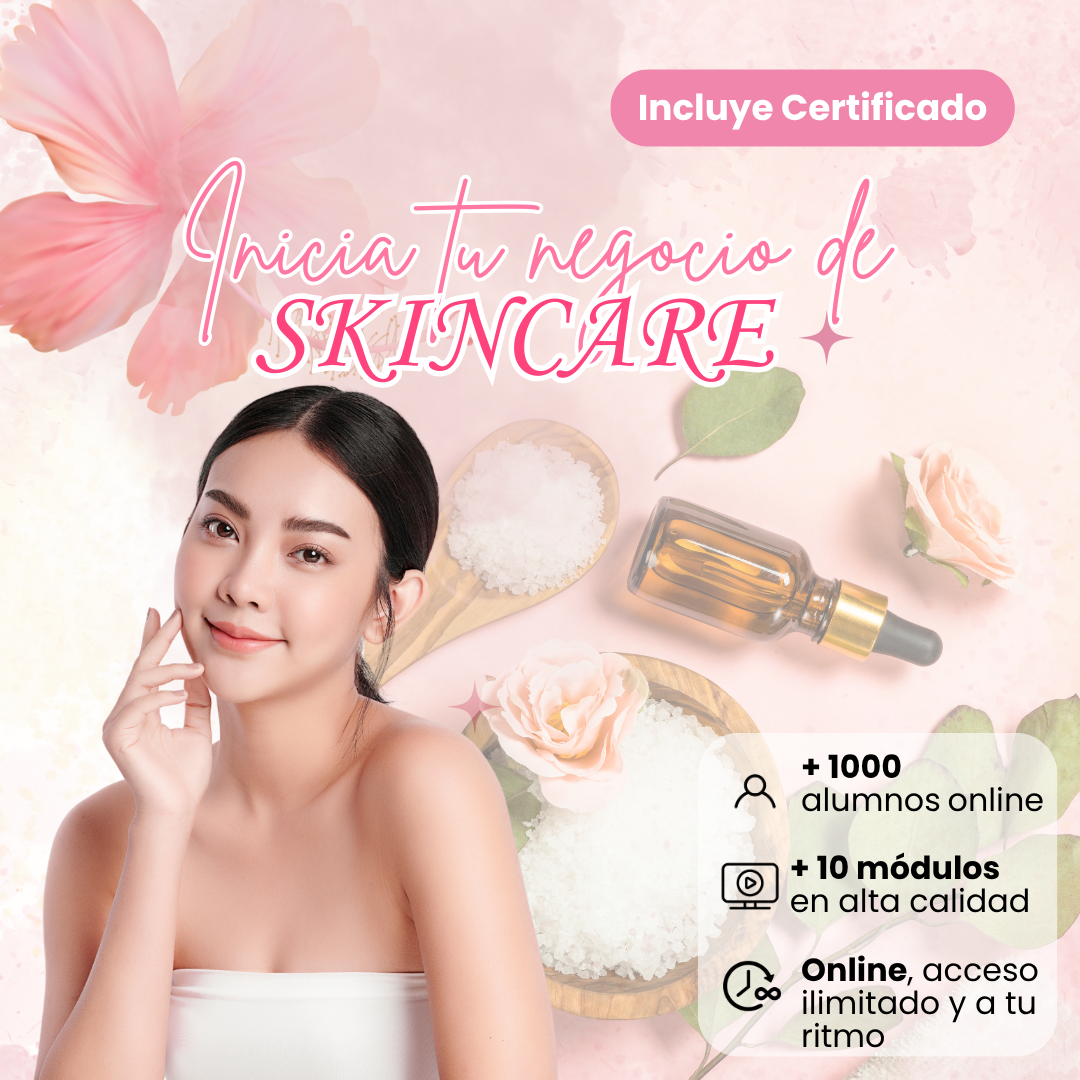
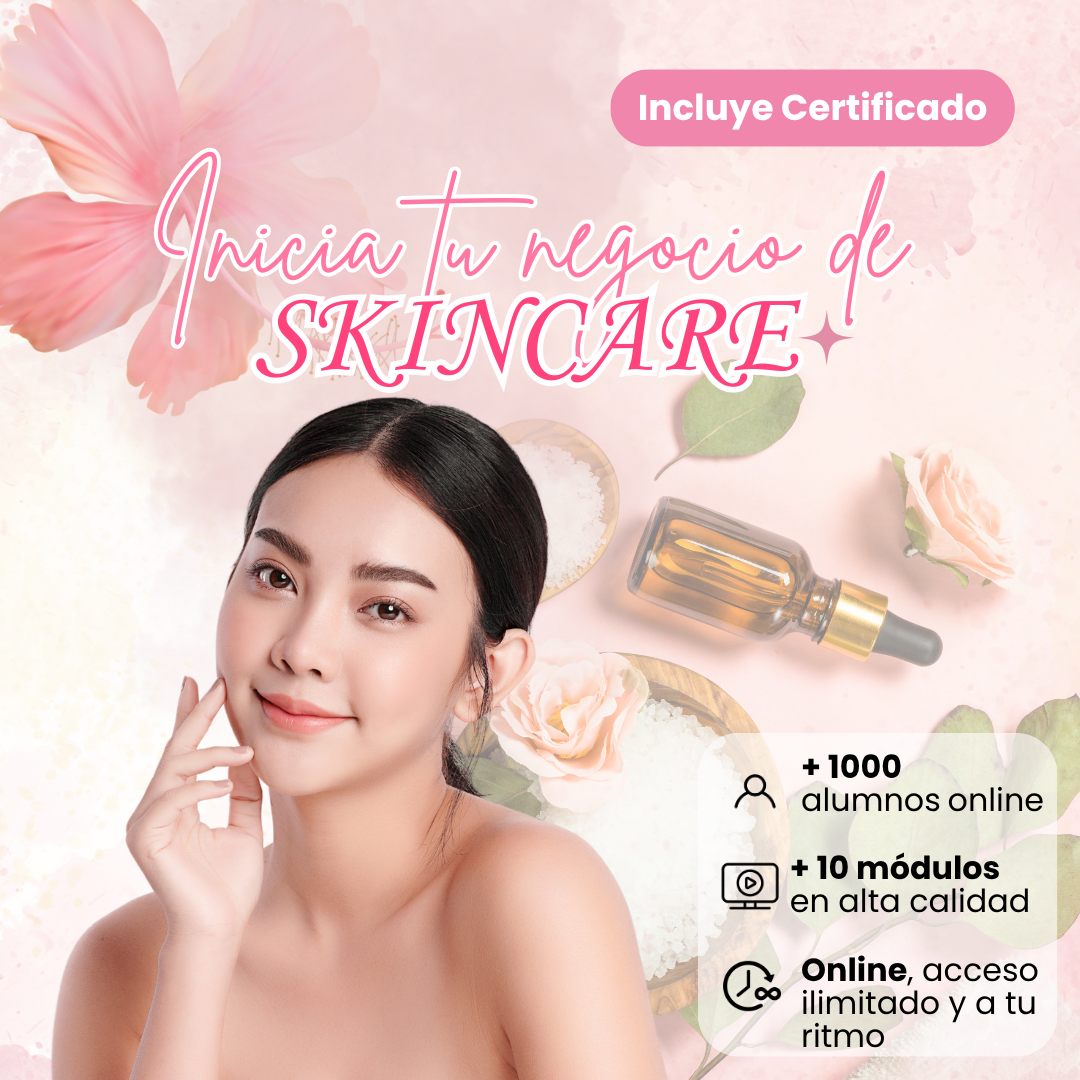
skincare

Changed region(s): [[0.0306, 0.1222, 0.8556, 1.0]]

diff --git a/index.html b/index.html
@@ -544,7 +544,7 @@ a:active {
      <div class="course-card">
   <a href="curso1.html" target="_blank">
     <div class="img-wrapper">
-      <img src="/img/curso-aroma-hd.png" alt="Curso 1" loading="lazy">
+      <img src="/img/curso-skincare-hd.png" alt="Curso 1" loading="lazy">
     </div>
     <div class="curso-rating" data-rating="4"></div>
     <div class="course-info">
